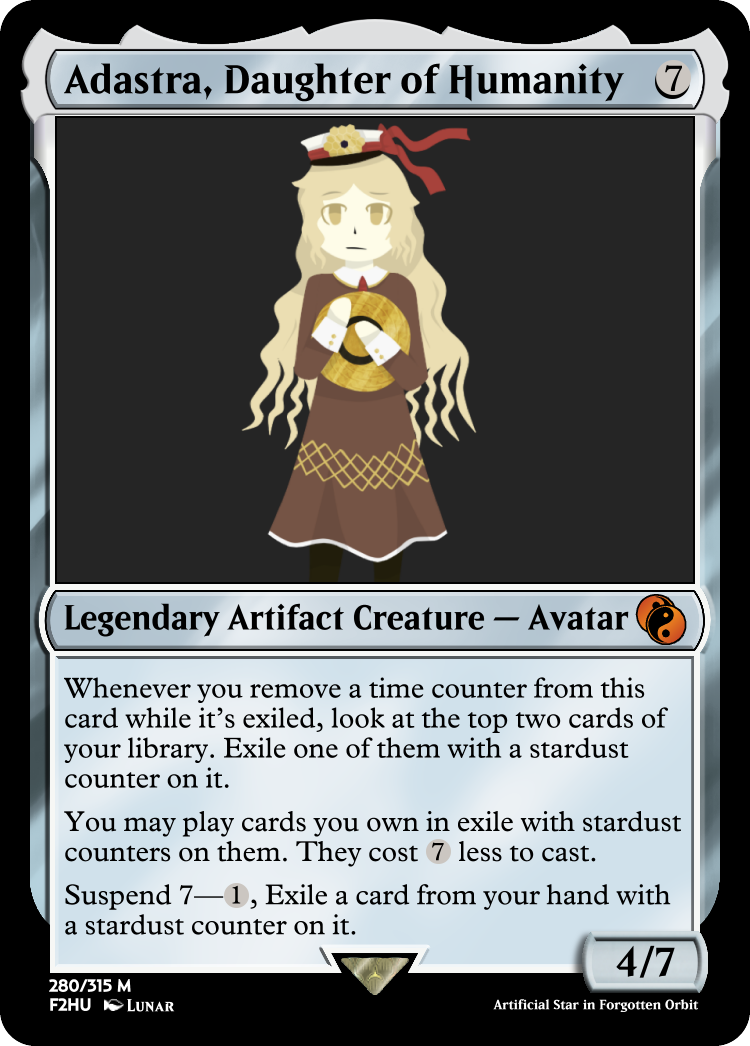
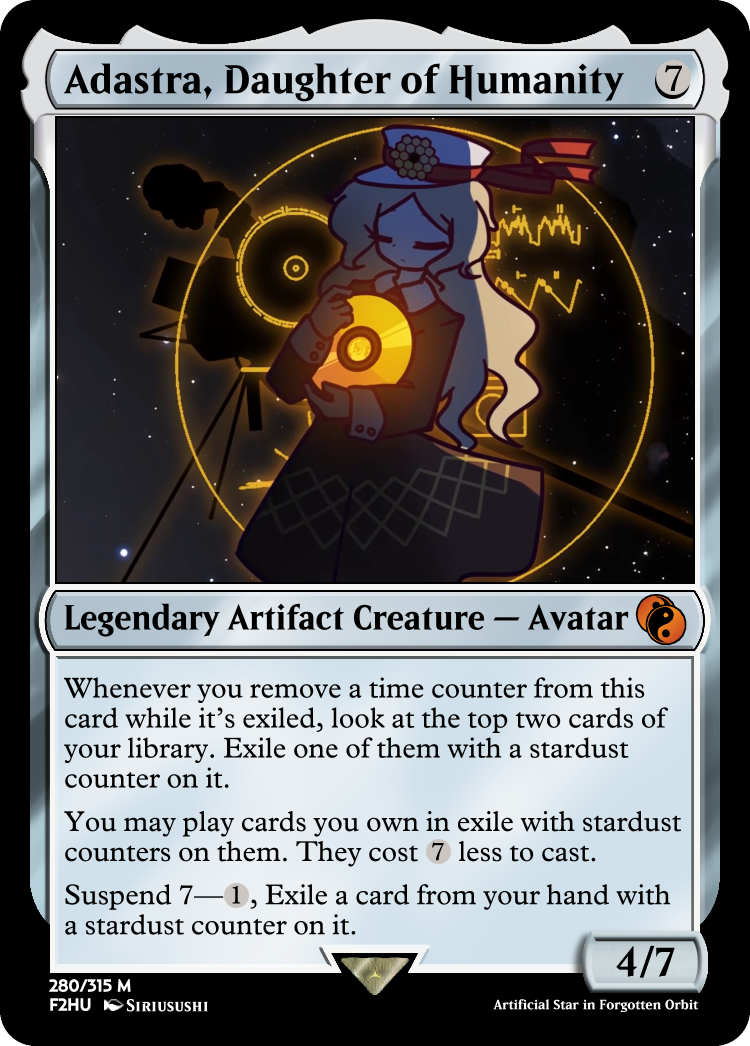
F2HU: update splash after FT

diff --git a/sets/F2HU.html b/sets/F2HU.html
@@ -428,6 +428,16 @@ I ended up dipping into <a href="https://silver-parabellum.github.io/previews/ON
 <p>I also recorded all my games this time. Again, It's not very watchable because it suffers from all the standard "Ricky stutters a lot and sucks at commentary" problems.</p>
 <p>If you do decide to watch it, I recommend watching on 2x speed.</p>
 <iframe width="560" height="315" src="https://www.youtube.com/embed/videoseries?list=PLsCg0DWx1gT8m0U1VlQ1jP2ZqJDaMSbqz" title="YouTube video player" frameborder="0" allow="accelerometer; autoplay; clipboard-write; encrypted-media; gyroscope; picture-in-picture; web-share" referrerpolicy="strict-origin-when-cross-origin" allowfullscreen></iframe>
+
+<hr />
+<p>I submitted this set to the mse discord's <a href="https://docs.google.com/document/d/14ijcorF6--s59-55MvfZJvDsj6_9dJTbAexsQ7aiK90/edit?usp=sharing">Field Test</a> season 11!
+Field test added new rules that a set can only participate three times, so this unfortunately marks the last field test for F2HU.</p>
+<p>This time, Rachel submitted 2MC again, which combines the <a href="https://rachel-brighton.github.io/previews/AKU">three</a> <a href="https://rachel-brighton.github.io/previews/GRM">touhou</a> <a href="https://rachel-brighton.github.io/previews/INC">minisets</a> that are intended for Touhou block constructed into a single set.</p>
+<p>Like last time, I didn't mainly stick to Touhou block constructed. I built with plenty of cards across other sets in my pool. I think it might be because the 2HU block cards have already been plenty explored during the past FTs.
+This time, the sets I ended up dipping into the most are <a href="https://silver-parabellum.github.io/previews/SSC">Shiyue</a> (by <a href="https://silver-parabellum.github.io">Silverparabellum</a>) and <a href="https://bancrabs.github.io/previews/WHL">Building Fortune's Wheel</a> (by <a href="https://bancrabs.github.io">Wende</a>) </p>
+<p>I also recorded all my games this time. Again, It's not very watchable because it suffers from all the standard "Ricky stutters a lot and sucks at commentary" problems.</p>
+<p>If you do decide to watch it, I recommend watching on 2x speed.</p>
+<iframe width="560" height="315" src="https://www.youtube.com/embed/videoseries?list=PLQHK9Tb7YdBY" title="YouTube video player" frameborder="0" allow="accelerometer; autoplay; clipboard-write; encrypted-media; gyroscope; picture-in-picture; web-share" referrerpolicy="strict-origin-when-cross-origin" allowfullscreen></iframe>
 	</div>
 
 	<div class="grid-container" id="grid">

diff --git a/custom/sets/F2HU-files/splash.md b/custom/sets/F2HU-files/splash.md
@@ -82,3 +82,19 @@ I also recorded all my games this time. Again, It's not very watchable because i
 If you do decide to watch it, I recommend watching on 2x speed.
 
 <iframe width="560" height="315" src="https://www.youtube.com/embed/videoseries?list=PLsCg0DWx1gT8m0U1VlQ1jP2ZqJDaMSbqz" title="YouTube video player" frameborder="0" allow="accelerometer; autoplay; clipboard-write; encrypted-media; gyroscope; picture-in-picture; web-share" referrerpolicy="strict-origin-when-cross-origin" allowfullscreen></iframe>
+
+---
+
+I submitted this set to the mse discord's [Field Test](https://docs.google.com/document/d/14ijcorF6--s59-55MvfZJvDsj6_9dJTbAexsQ7aiK90/edit?usp=sharing) season 11!
+Field test added new rules that a set can only participate three times, so this unfortunately marks the last field test for F2HU.
+
+This time, Rachel submitted 2MC again, which combines the [three](https://rachel-brighton.github.io/previews/AKU) [touhou](https://rachel-brighton.github.io/previews/GRM) [minisets](https://rachel-brighton.github.io/previews/INC) that are intended for Touhou block constructed into a single set.
+
+Like last time, I didn't mainly stick to Touhou block constructed. I built with plenty of cards across other sets in my pool. I think it might be because the 2HU block cards have already been plenty explored during the past FTs.
+This time, the sets I ended up dipping into the most are [Shiyue](https://silver-parabellum.github.io/previews/SSC) (by [Silverparabellum](https://silver-parabellum.github.io)) and [Building Fortune's Wheel](https://bancrabs.github.io/previews/WHL) (by [Wende](https://bancrabs.github.io)) 
+
+I also recorded all my games this time. Again, It's not very watchable because it suffers from all the standard "Ricky stutters a lot and sucks at commentary" problems.
+
+If you do decide to watch it, I recommend watching on 2x speed.
+
+<iframe width="560" height="315" src="https://www.youtube.com/embed/videoseries?list=PLQHK9Tb7YdBY" title="YouTube video player" frameborder="0" allow="accelerometer; autoplay; clipboard-write; encrypted-media; gyroscope; picture-in-picture; web-share" referrerpolicy="strict-origin-when-cross-origin" allowfullscreen></iframe>

diff --git a/sets/F2HU-files/splash.md b/sets/F2HU-files/splash.md
@@ -82,3 +82,19 @@ I also recorded all my games this time. Again, It's not very watchable because i
 If you do decide to watch it, I recommend watching on 2x speed.
 
 <iframe width="560" height="315" src="https://www.youtube.com/embed/videoseries?list=PLsCg0DWx1gT8m0U1VlQ1jP2ZqJDaMSbqz" title="YouTube video player" frameborder="0" allow="accelerometer; autoplay; clipboard-write; encrypted-media; gyroscope; picture-in-picture; web-share" referrerpolicy="strict-origin-when-cross-origin" allowfullscreen></iframe>
+
+---
+
+I submitted this set to the mse discord's [Field Test](https://docs.google.com/document/d/14ijcorF6--s59-55MvfZJvDsj6_9dJTbAexsQ7aiK90/edit?usp=sharing) season 11!
+Field test added new rules that a set can only participate three times, so this unfortunately marks the last field test for F2HU.
+
+This time, Rachel submitted 2MC again, which combines the [three](https://rachel-brighton.github.io/previews/AKU) [touhou](https://rachel-brighton.github.io/previews/GRM) [minisets](https://rachel-brighton.github.io/previews/INC) that are intended for Touhou block constructed into a single set.
+
+Like last time, I didn't mainly stick to Touhou block constructed. I built with plenty of cards across other sets in my pool. I think it might be because the 2HU block cards have already been plenty explored during the past FTs.
+This time, the sets I ended up dipping into the most are [Shiyue](https://silver-parabellum.github.io/previews/SSC) (by [Silverparabellum](https://silver-parabellum.github.io)) and [Building Fortune's Wheel](https://bancrabs.github.io/previews/WHL) (by [Wende](https://bancrabs.github.io)) 
+
+I also recorded all my games this time. Again, It's not very watchable because it suffers from all the standard "Ricky stutters a lot and sucks at commentary" problems.
+
+If you do decide to watch it, I recommend watching on 2x speed.
+
+<iframe width="560" height="315" src="https://www.youtube.com/embed/videoseries?list=PLQHK9Tb7YdBY" title="YouTube video player" frameborder="0" allow="accelerometer; autoplay; clipboard-write; encrypted-media; gyroscope; picture-in-picture; web-share" referrerpolicy="strict-origin-when-cross-origin" allowfullscreen></iframe>
